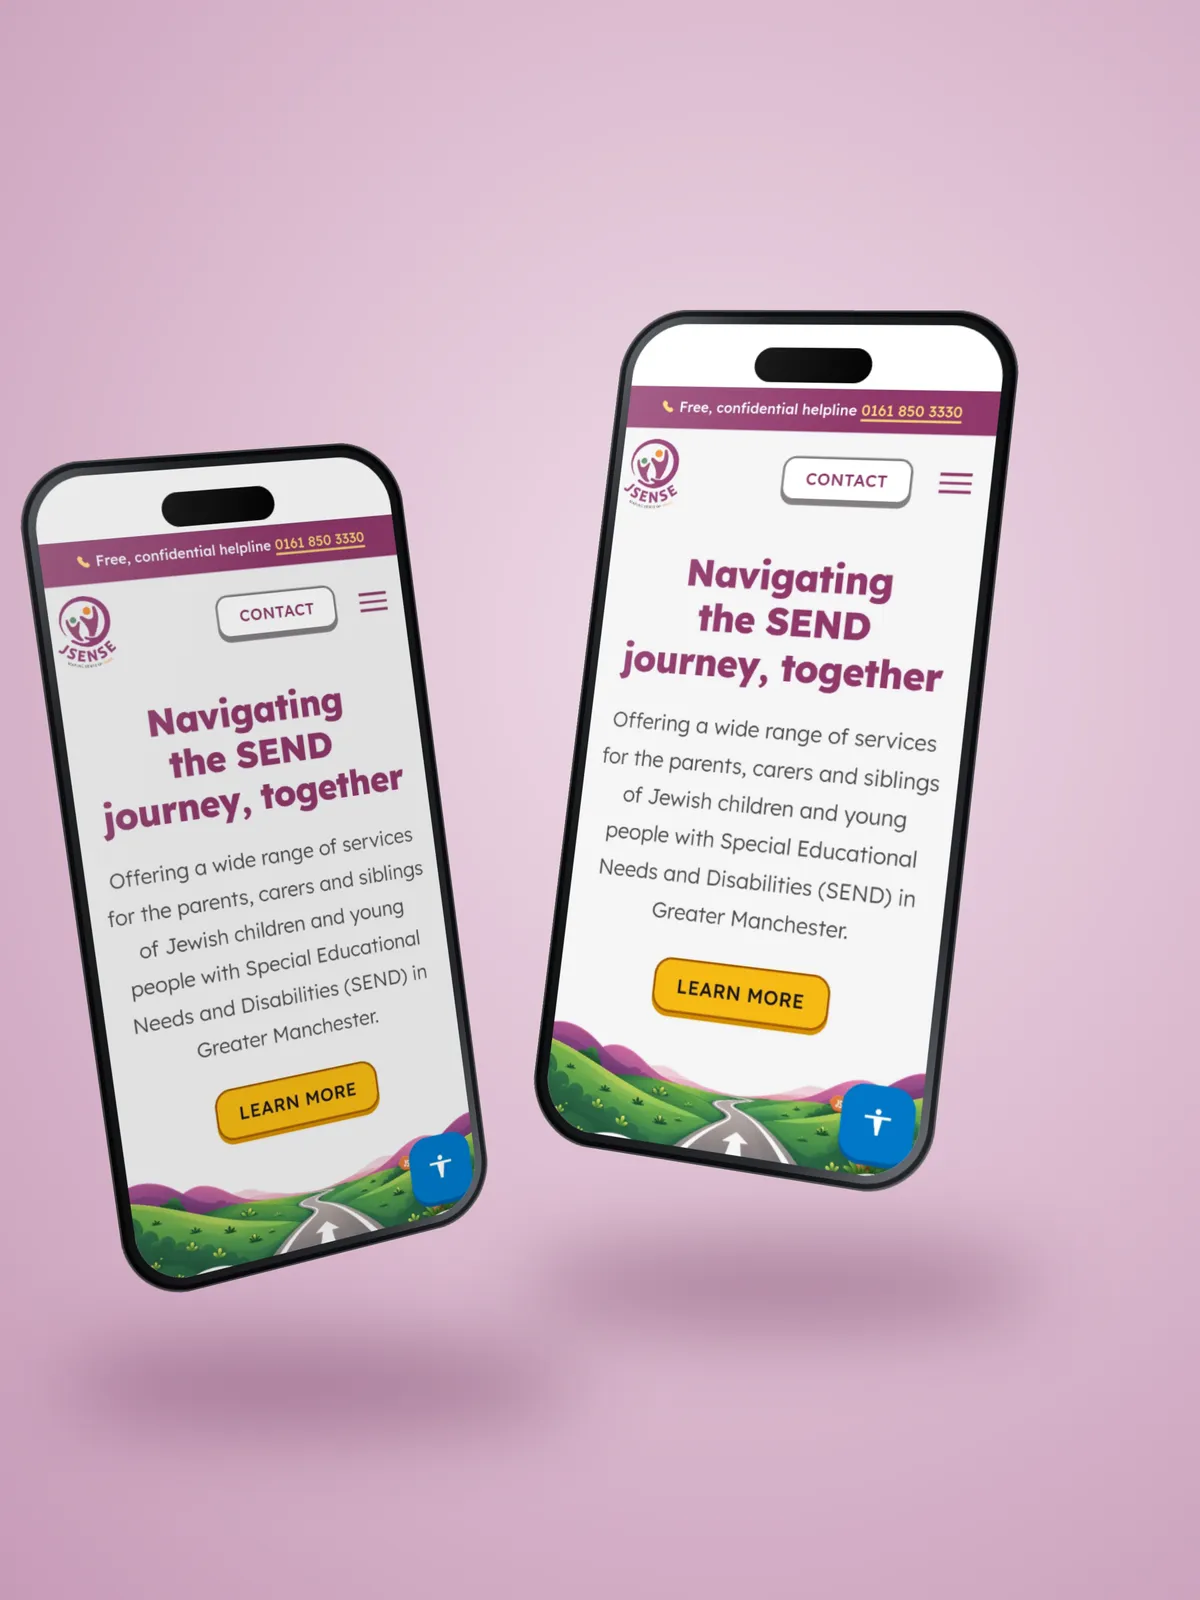
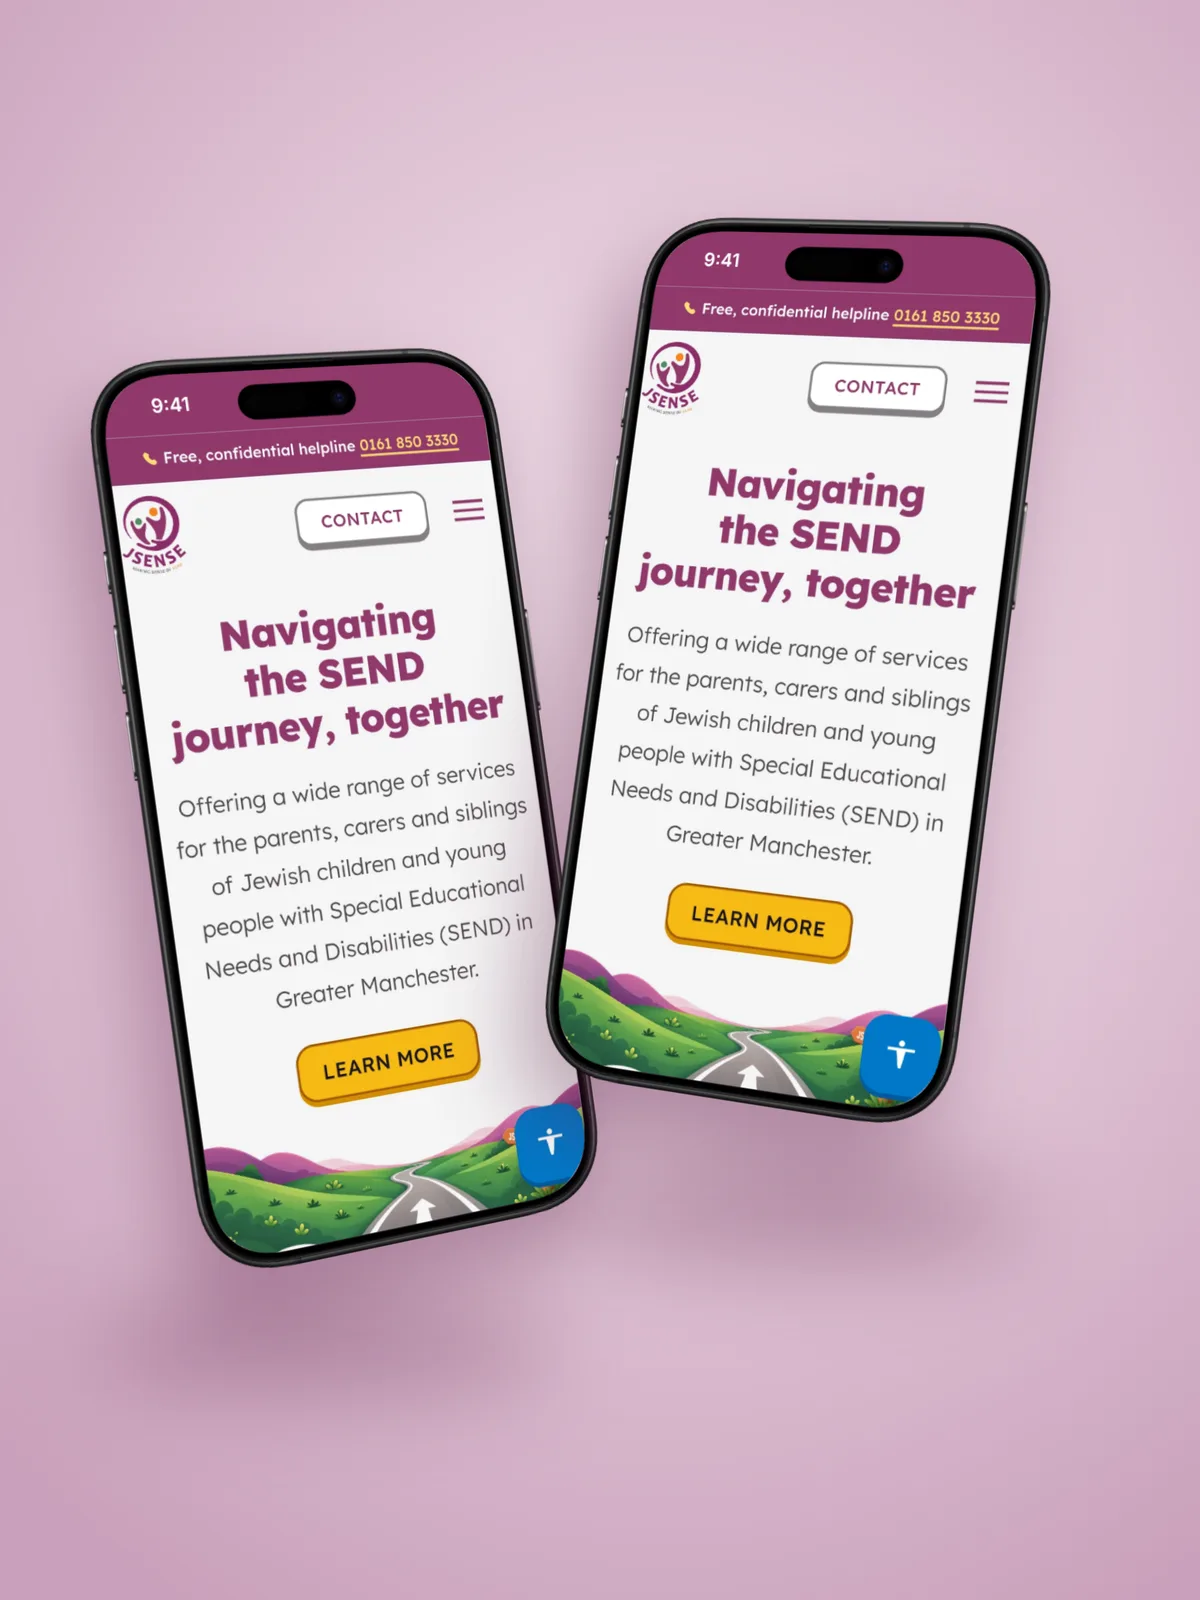
Work: restore Clinical's tilted-phone mockup; JSense on real iPhone 16 Pro frames
Clinical goes back to the blue tilted-phone scene. JSense now uses Apple's
iPhone 16 Pro device frame (via jamesjingyi/mockup-device-frames) at a
standing, angled view, distinct from the two flat-lay cards.

Claude-Session: https://claude.ai/code/session_013cDmNY8mkABxEW7NUjD6qd

diff --git a/dist/index.html b/dist/index.html
@@ -259,8 +259,8 @@
           </a>
           <a class="work__card" href="projects/clinical-assessments.html">
             <div class="work__card-img-wrap">
-              <img class="work__card-img work__card-img--desktop" src="./assets/clinic-mockup-av7vG0EF.webp" alt="Clinical Assessments website" loading="lazy" />
-              <img class="work__card-img work__card-img--mobile" src="./assets/clinic-mockup-av7vG0EF.webp" alt="Clinical Assessments mobile" loading="lazy" />
+              <img class="work__card-img work__card-img--desktop" src="./assets/clinic-mockup-zbv2-3jE.webp" alt="Clinical Assessments website" loading="lazy" />
+              <img class="work__card-img work__card-img--mobile" src="./assets/clinic-mockup-zbv2-3jE.webp" alt="Clinical Assessments mobile" loading="lazy" />
             </div>
             <div class="work__card-meta">
               <span class="work__card-name">Clinical Assessments</span>
@@ -269,7 +269,7 @@
           </a>
           <a class="work__card" href="https://jsense.org.uk" target="_blank" rel="noopener noreferrer">
             <div class="work__card-img-wrap">
-              <img class="work__card-img" src="./assets/jsense-mockup-9Mwj9BFK.webp" alt="JSense website" loading="lazy" />
+              <img class="work__card-img" src="./assets/jsense-mockup-BA-jlUWC.webp" alt="JSense website" loading="lazy" />
             </div>
             <div class="work__card-meta">
               <span class="work__card-name">JSense</span>
